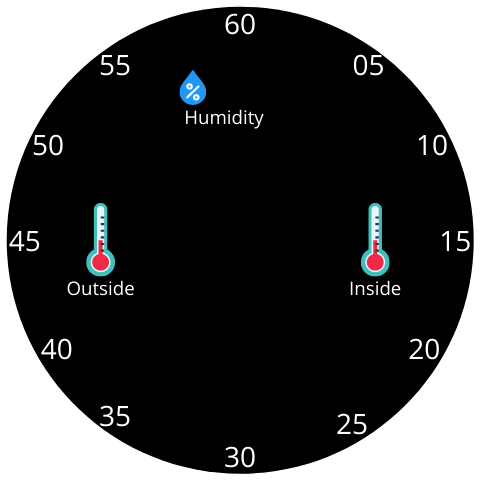
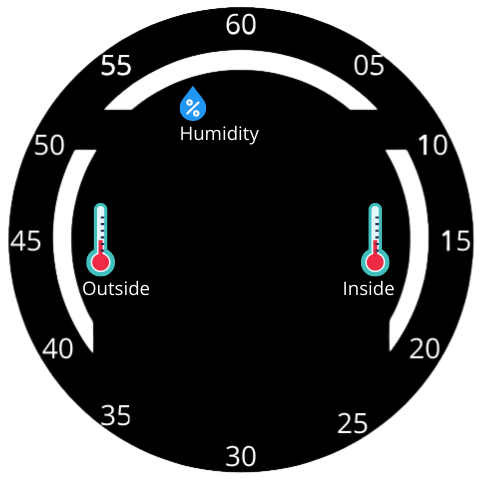
udpated clock

diff --git a/Firmware/temp.py b/Firmware/temp.py
@@ -1,0 +1,80 @@
+try:
+    import Tkinter as tk
+    import tkFont
+    import ttk
+except ImportError:  # Python 3
+    import tkinter as tk
+    import tkinter.font as tkFont
+    import tkinter.ttk as ttk
+
+class CircularProgressbar(object):
+    def __init__(self, canvas, x0, y0, x1, y1, width=2, start_ang=0, full_extent=360):
+        self.custom_font = tkFont.Font(family="Helvetica", size=12, weight='bold')
+        self.cur_extent=0
+        self.canvas = canvas
+        self.x0, self.y0, self.x1, self.y1 = x0+width, y0+width, x1-width, y1-width
+        self.tx, self.ty = (x1-x0) / 2, (y1-y0) / 2
+        self.width = width
+        self.start_ang, self.full_extent = start_ang, full_extent
+        # draw static bar outline
+        w2 = width / 2
+        self.oval_id1 = self.canvas.create_oval(self.x0-w2, self.y0-w2,
+                                                self.x1+w2, self.y1+w2)
+        self.oval_id2 = self.canvas.create_oval(self.x0+w2, self.y0+w2,
+                                                self.x1-w2, self.y1-w2)
+        self.running = False
+
+    def start(self, interval=100):
+        self.interval = interval
+        self.increment = self.full_extent / interval
+        self.extent = 0
+        self.arc_id = self.canvas.create_arc(self.x0, self.y0, self.x1, self.y1,
+                                             start=self.start_ang, extent=self.extent,
+                                             width=self.width, style='arc')
+        percent = '0%'
+        self.label_id = self.canvas.create_text(self.tx, self.ty, text=percent,
+                                                font=self.custom_font)
+        self.running = True
+        self.canvas.after(interval, self.step, self.increment)
+
+    def step(self, delta):
+        """Increment extent and update arc and label displaying how much completed."""
+        if self.running:
+            self.cur_extent = (self.cur_extent + delta) % 360
+            self.canvas.itemconfigure(self.arc_id, extent=self.cur_extent)
+            percent = '{:.0f}%'.format(round(float(self.cur_extent) / self.full_extent * 100))
+            self.canvas.itemconfigure(self.label_id, text=percent)
+
+        self.after_id = self.canvas.after(self.interval, self.step, delta)
+
+    def toggle_pause(self):
+        self.running = not self.running
+
+class Application(tk.Frame):
+    def __init__(self, master=None):
+        tk.Frame.__init__(self, master)
+        self.grid()
+        self.createWidgets()
+
+    def createWidgets(self):
+        self.canvas = tk.Canvas(self, width=200, height=200, bg='white')
+        self.canvas.grid(row=0, column=0, columnspan=2)
+
+        self.progressbar = CircularProgressbar(self.canvas, 0, 0, 200, 200, 20)
+
+        self.pauseButton = tk.Button(self, text='Pause', command=self.pause)
+        self.pauseButton.grid(row=1, column=0)
+        self.quitButton = tk.Button(self, text='Quit', command=self.quit)
+        self.quitButton.grid(row=1, column=1)
+
+    def start(self):
+        self.progressbar.start()
+        self.mainloop()
+
+    def pause(self):
+        self.progressbar.toggle_pause()
+
+if __name__ == '__main__':
+    app = Application()
+    app.master.title('Sample application')
+    app.start()

diff --git a/Firmware/Firmware.py b/Firmware/Firmware.py
@@ -4,19 +4,23 @@ from PIL import Image, ImageTk
 import random
 import datetime
 
-
+#start from 60 and clockwise
+seconds_coords=[[220,10],[]]
 root = Tk()
+
 
 humid_var = tkinter.StringVar()
 inside_temp_var = tkinter.StringVar()
 outside_temp_var = tkinter.StringVar()
 time_hr_var = tkinter.StringVar()
 time_mn_var = tkinter.StringVar()
+time_sc_var = tkinter.StringVar()
 inside_temp_var.set("0")
 outside_temp_var.set("0")
 humid_var.set("0")
 time_hr_var.set("00")
 time_mn_var.set("00")
+time_sc_var.set("60")
 
 root.geometry("480x480+0+0")
 
@@ -24,13 +28,14 @@ root.geometry("480x480+0+0")
 image1 = Image.open("artwork/1.png")
 test = ImageTk.PhotoImage(image1)
 
-label1 = tkinter.Label(image=test)
+label1 = tkinter.Label(root,image=test)
 label1.image = test
 label1.place(x=0, y=0)
 
-
+def touchFunc(n):
+    print('screen touched')
 def updateData():
-    global humid_var, inside_temp_var, outside_temp_var, time_hr_var, time_mn_var
+    global humid_var, inside_temp_var, outside_temp_var, time_hr_var, time_mn_var, time_sc_var
     now = datetime.datetime.now()
     humid_var.set(str(random.randint(10, 80)))
     inside_temp_var.set(str(random.randint(10, 80)))
@@ -45,30 +50,43 @@ def updateData():
         time_mn_var.set("0"+str(now.minute))
     else:
         time_mn_var.set(str(now.minute))
+    
+    if(len(str(now.second)) == 1):
+        time_sc_var.set("0"+str(now.second))
+    else:
+        time_sc_var.set(str(now.second))
 
     root.after(1000, updateData)
 
 
 humid_label = tkinter.Label(root, textvariable=humid_var, font=(
-    "Arial", 25), fg='white', bg='black')
-humid_label.place(x=220, y=60)
+    "Arial", 20), fg='white', bg='black')
+humid_label.place(x=220, y=85)
 
 inside_temp = tkinter.Label(root, textvariable=inside_temp_var, font=(
-    "Arial", 25), fg='white', bg='black')
-inside_temp.place(x=360, y=150)
+    "Arial", 20), fg='white', bg='black')
+inside_temp.place(x=350, y=300)
 
 outside_temp = tkinter.Label(root, textvariable=outside_temp_var, font=(
-    "Arial", 25), fg='white', bg='black')
-outside_temp.place(x=85, y=150)
+    "Arial", 20), fg='white', bg='black')
+outside_temp.place(x=95, y=300)
 
 
 time_hr = tkinter.Label(root, textvariable=time_hr_var,
-                        font=("Helvetica", 80), fg='white', bg='black')
-time_hr.place(x=170, y=140)
+                        font=("Helvetica", 70), fg='white', bg='black')
+time_hr.place(x=180, y=150)
 time_mn = tkinter.Label(root, textvariable=time_mn_var,
-                        font=("Helvetica", 80), fg='white', bg='black')
-time_mn.place(x=170, y=250)
+                        font=("Helvetica", 70), fg='white', bg='black')
+time_mn.place(x=180, y=250)
+
+
+
+time_sc = tkinter.Label(root, textvariable=time_sc_var,
+                        font=("Helvetica", 45), fg='white', bg='black')
+time_sc.place(x=200, y=350)
 
 
 root.after(1000, updateData)
+root.bind("<Button-1>", touchFunc)
+
 root.mainloop()
